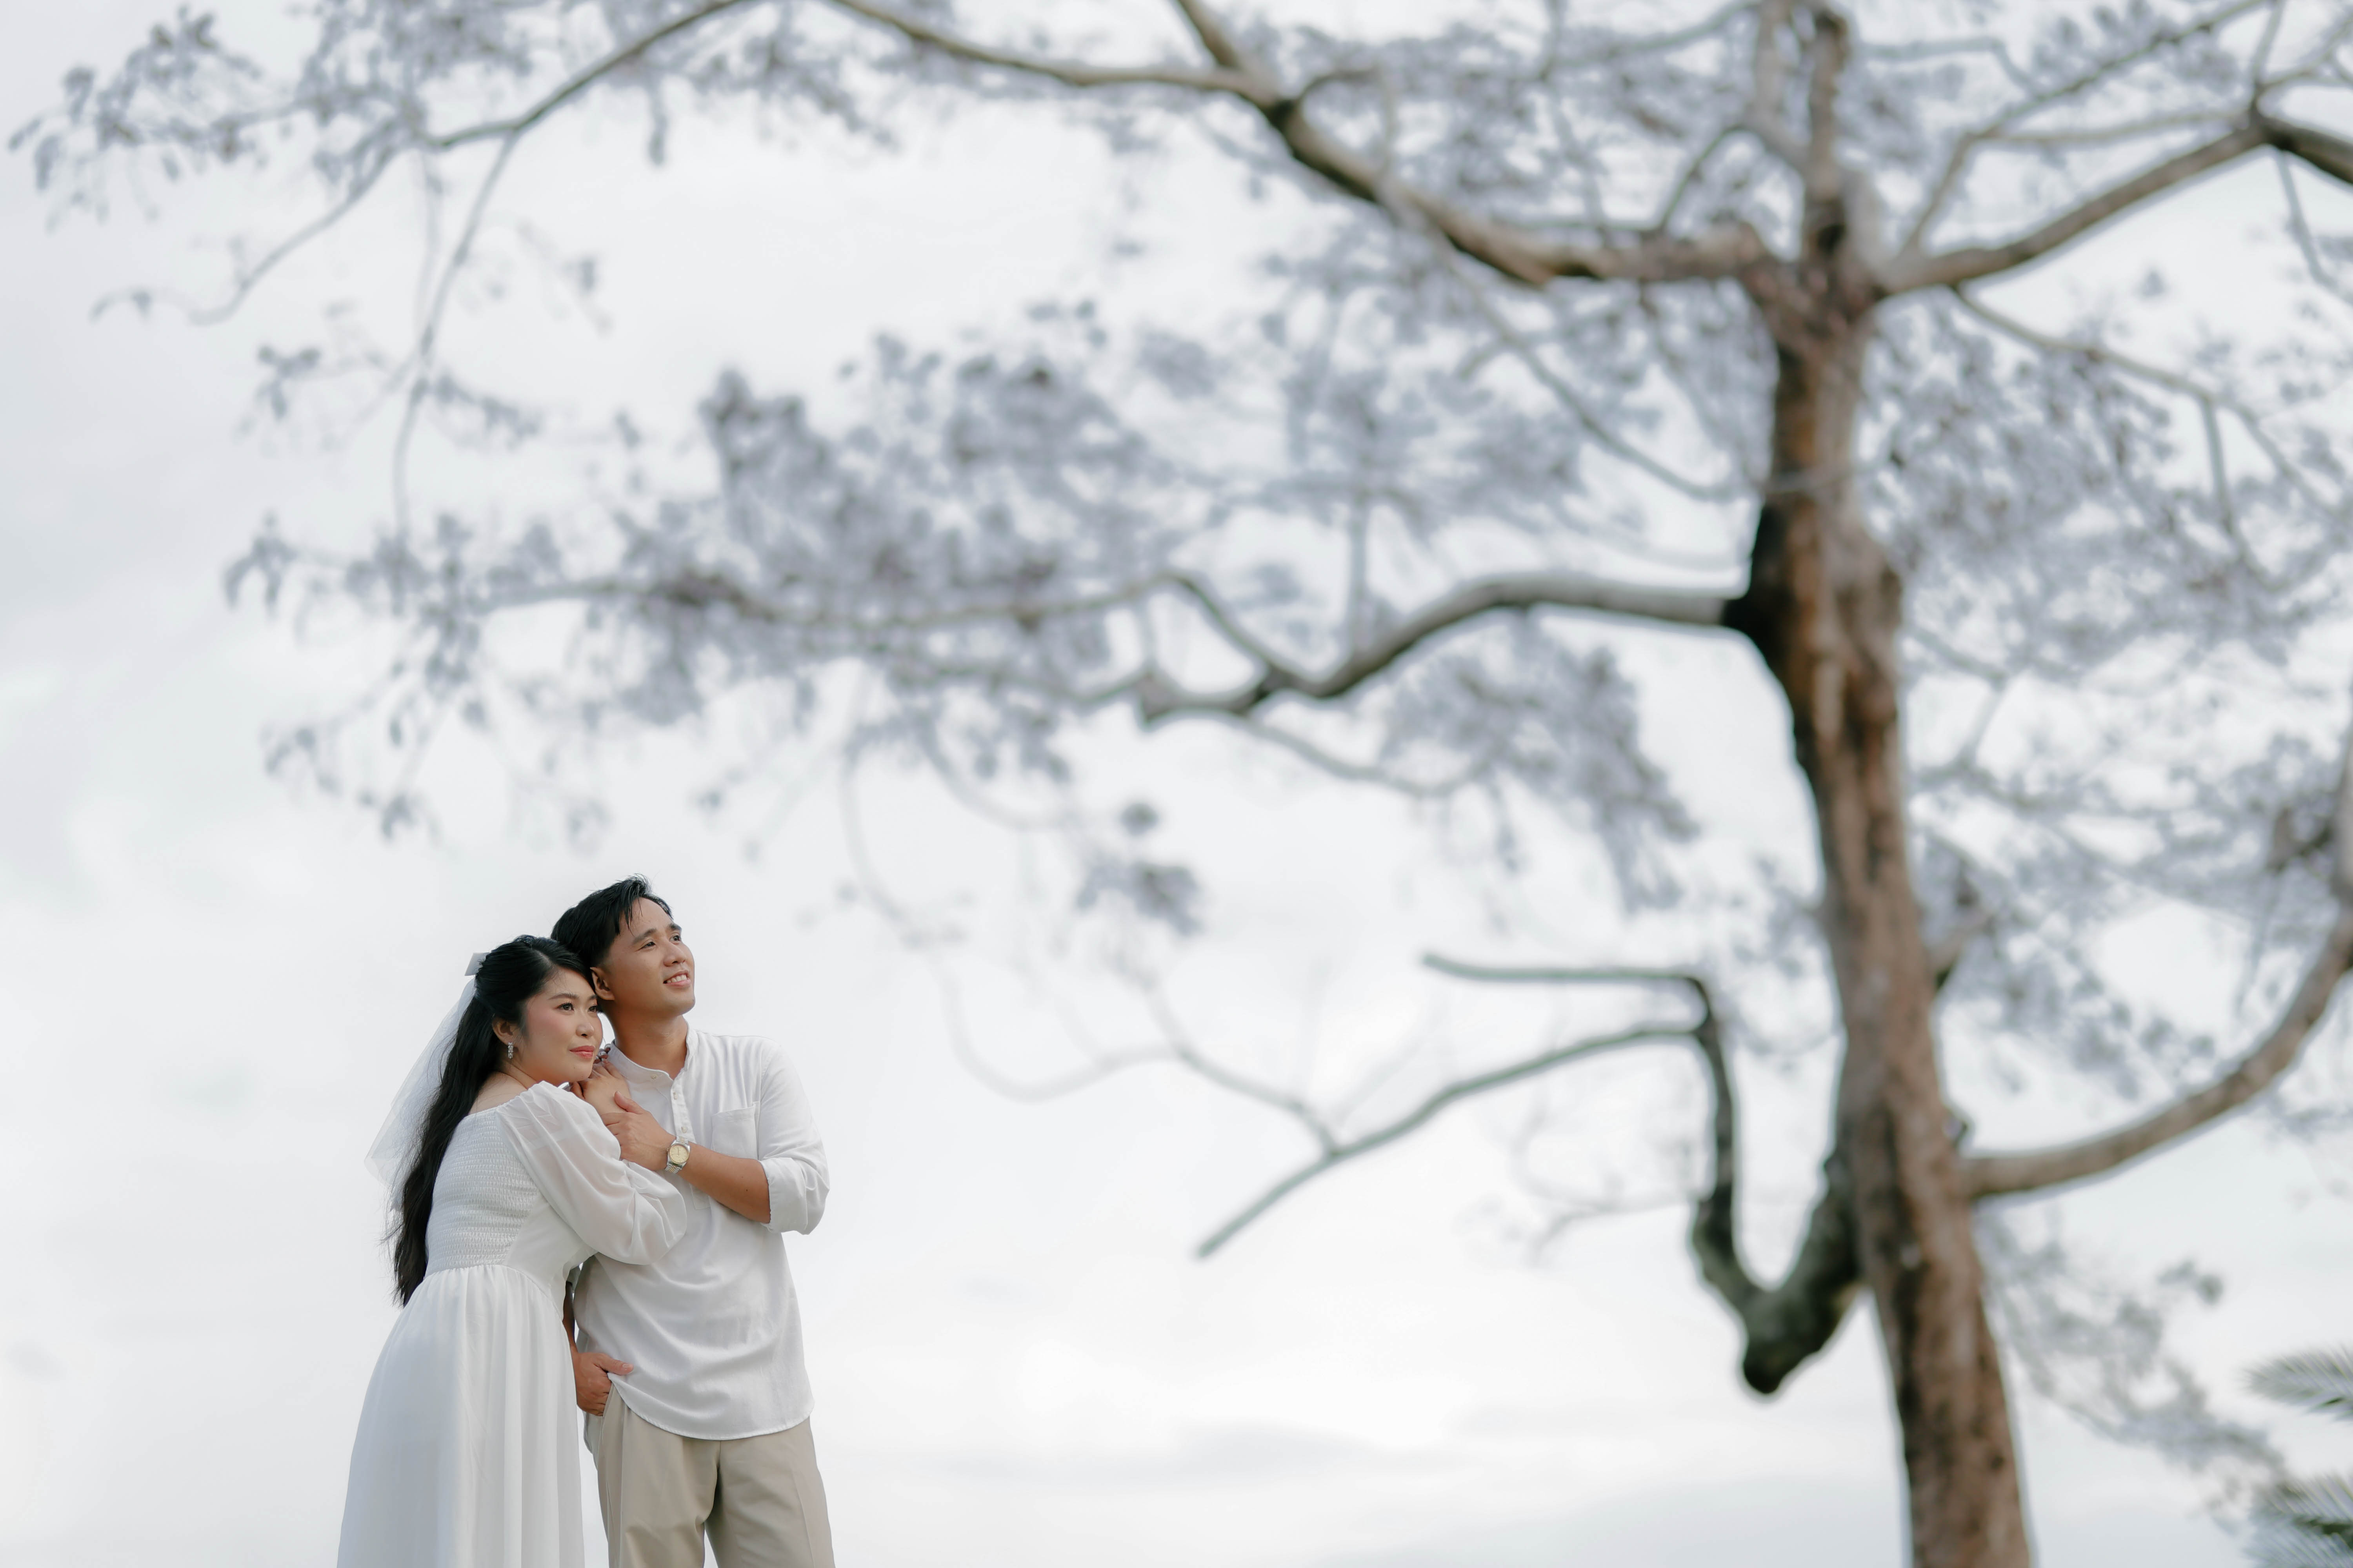
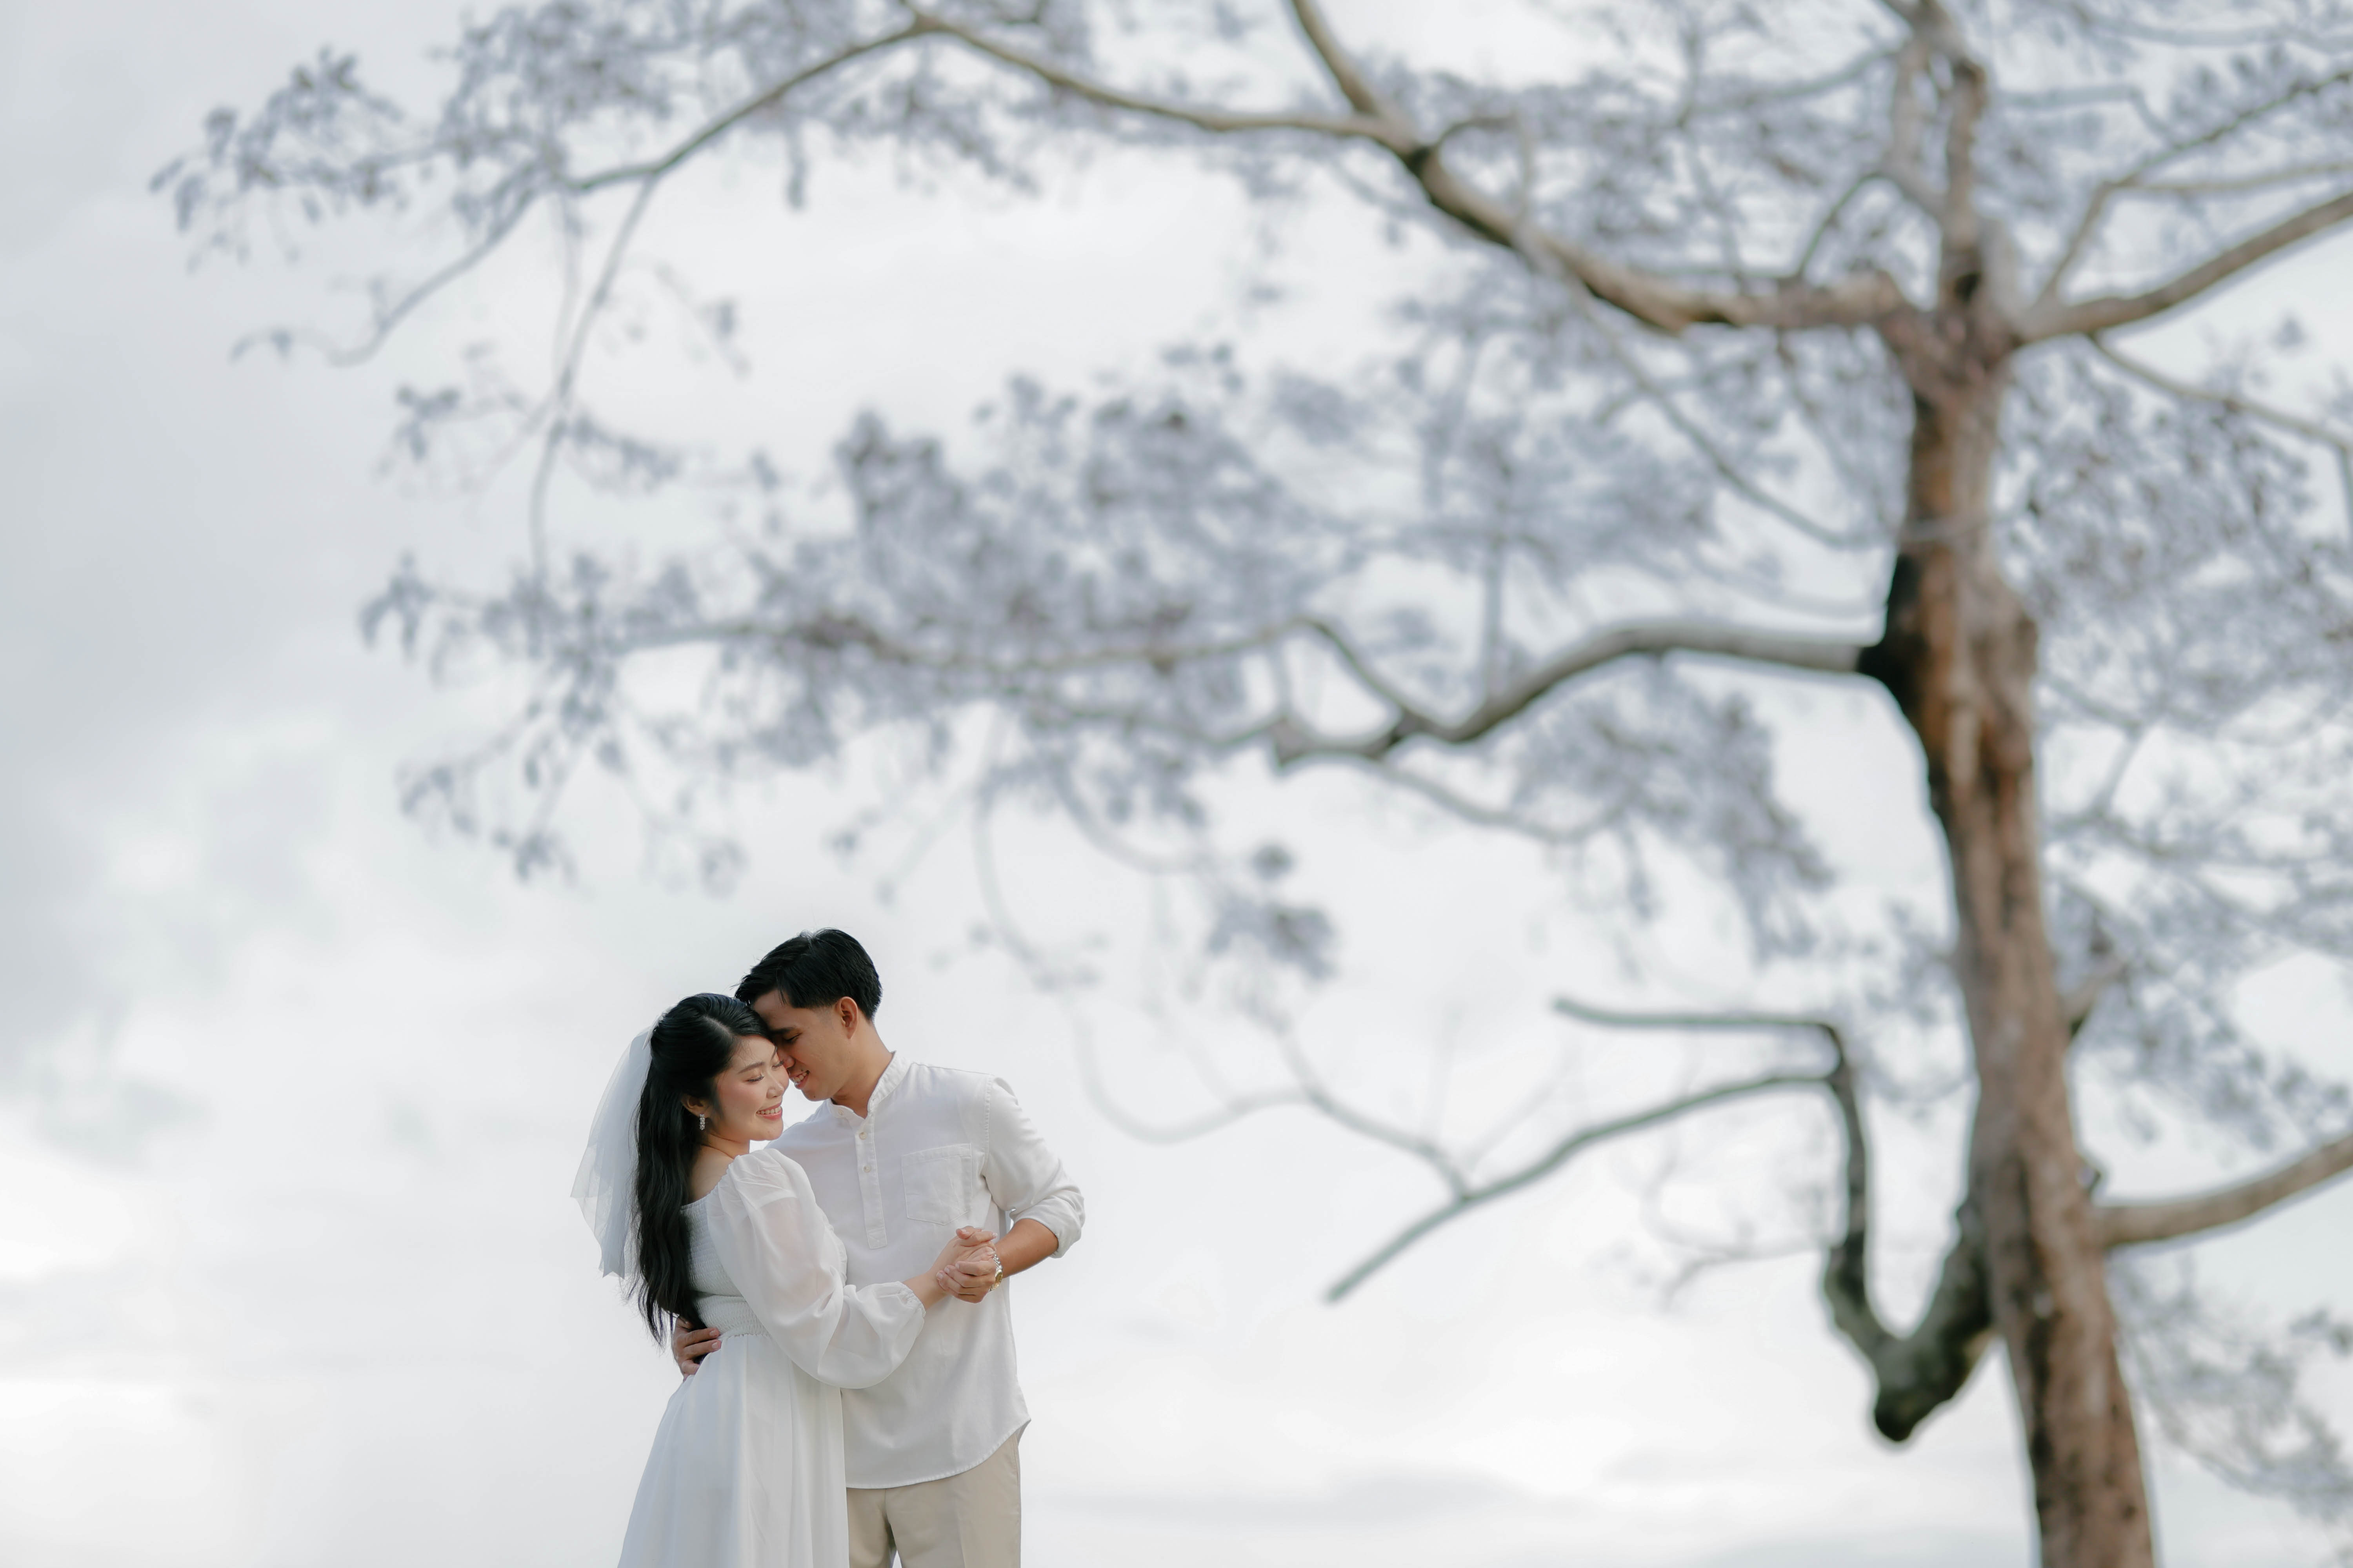
Final Wedding Updates

diff --git a/index.html b/index.html
@@ -456,7 +456,7 @@
 
             <div class="map-card">
 
-                <h4>⛪ Ceremony</h4>
+                <h4>Ceremony</h4>
 
                 <img src="assets/images/Church.png"
                      class="location-photo"
@@ -464,7 +464,7 @@
 
                 <p>Our Lady of Guadalupe Parish Church</p>
 
-                <p>Concepcion I,Sariaya, Philippines</p>
+                <p>Concepcion I, Sariaya Quezon, Philippines</p>
 
                 <a href="https://maps.app.goo.gl/bSHakrmB8a1bAfnFA"
 
@@ -485,7 +485,7 @@
 
             <div class="map-card">
 
-                <h4>🎉 Reception</h4>
+                <h4>Reception</h4>
 
                 <img src="assets/images/venue.jpg"
                      class="location-photo"
@@ -493,7 +493,7 @@
 
                 <p>GP Events Place</p>
 
-                <p>Concepcion I,Sariaya, Philippines</p>
+                <p>Concepcion I, Sariaya Quezon, Philippines</p>
 
                 <a href="https://maps.app.goo.gl/JcbnLFtbThSqTpt19"
 
@@ -543,7 +543,7 @@
 
                     <h4>Entourage Assembly</h4>
 
-                    <p>GP Suites</p>
+                    <p>GP Suites (Hotel Lobby)</p>
 
                     <p>Photo Opportunity</p>
 
